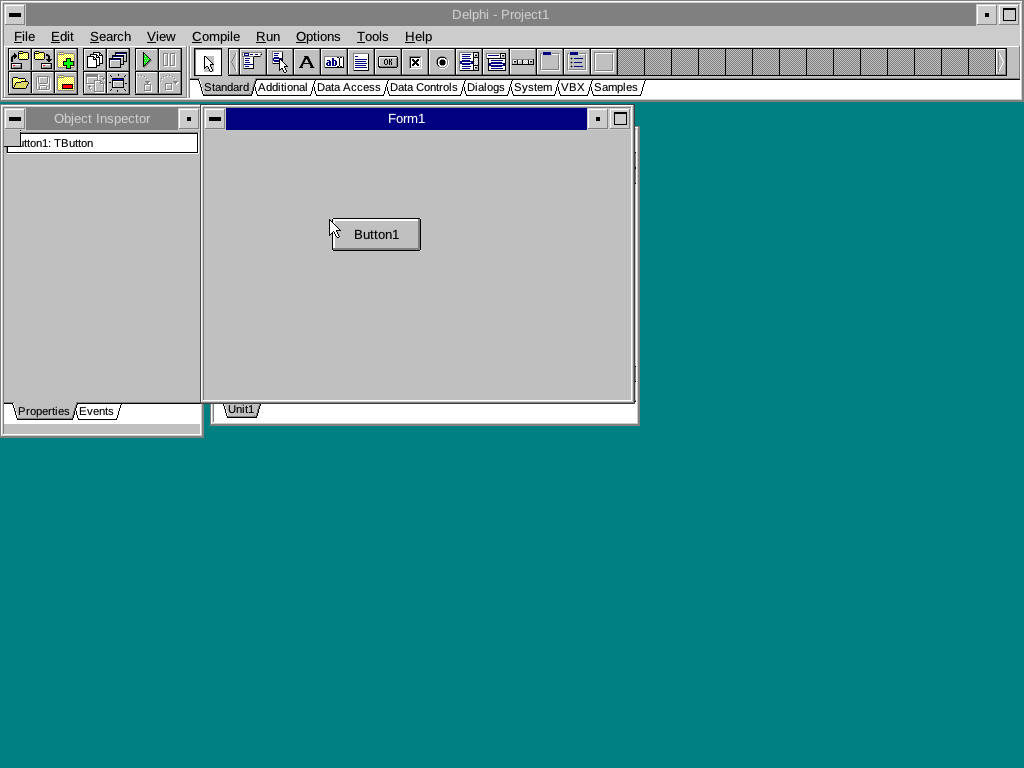
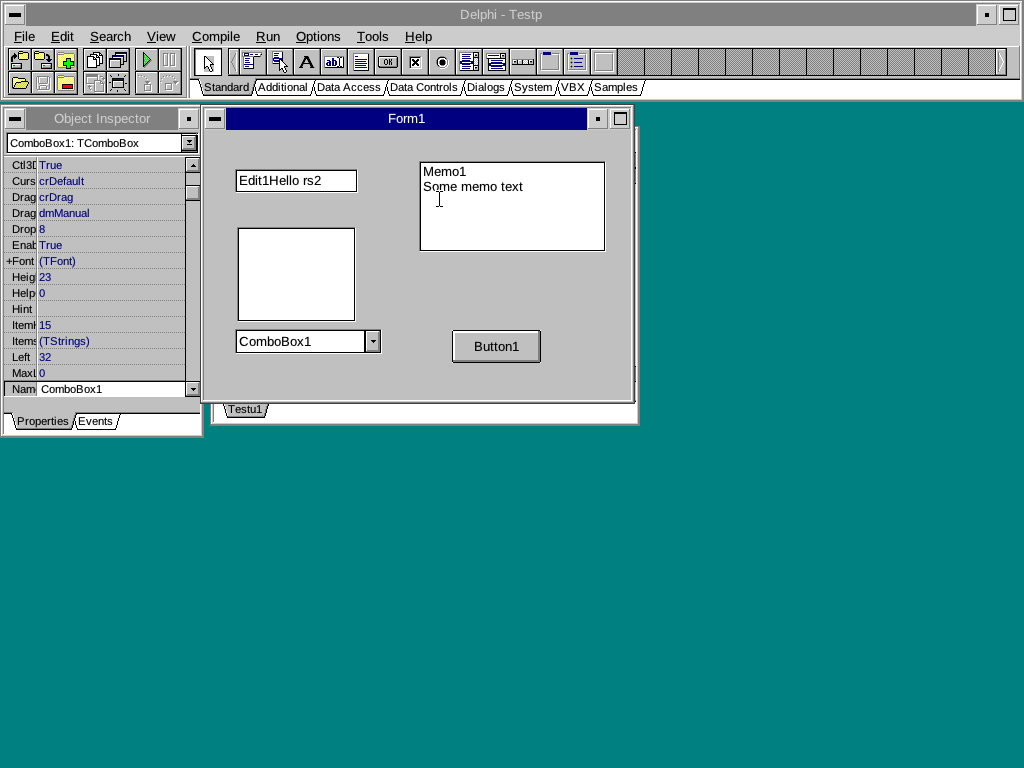
docs/WIN16.md: Delphi 1.0 works with its default settings (the inspector, designer, menus, Gallery, COMMDLG, options, compiled programs) and what it needed; TOOLHELP and debuggers (task registry, TDBs, views of other tasks, notifications, the entry breakpoint) and what debugging another task is miss

diff --git a/docs/WIN16.md b/docs/WIN16.md
@@ -35,7 +35,9 @@ files are involved. This is the media-free alternative to Win-OS/2
 | Printing: printer DCs (CreateDC, CreateIC) on rs2's spooler and PostScript driver, Escape (STARTDOC, NEWFRAME, ENDDOC, ABORTDOC, NEXTBAND, GETPHYSPAGESIZE, PASSTHROUGH...), StartDoc...EndDoc, SetAbortProc, GetDeviceCaps, WIN.INI's printers | works (stage 3) |
 | DDE between Windows tasks (WM_DDE_*, GMEM_DDESHARE, global atoms), to PM programs' DDE servers, DDEML | works (stage 3) |
 | The clipboard: CF_TEXT, CF_BITMAP, CF_DIB, CF_METAFILEPICT, registered formats, delayed rendering, shared with PM programs | works (stage 3) |
-| MMSYSTEM, OLE 2, TOOLHELP's databases, the rest of the compatibility tail | stage 4 |
+| TOOLHELP: the task, module and global heap databases, stack traces, MemoryRead/Write, NotifyRegister's task start and end across processes | works (stage 4, below) |
+| Debugging another task (breakpoints, single steps, a stopped task's registers) | no: tasks are processes ("TOOLHELP and debuggers") |
+| MMSYSTEM, OLE 2, the rest of the compatibility tail | stage 4 |
 
 Checked in QEMU: `RS2\HELLO16.EXE` (a classic hello world: a window
 class, text painted in WM_PAINT, a MessageBox on a click) shows as a PM
@@ -120,9 +122,11 @@ same loader reads both, but a Windows module differs in several ways.
   module name and the "TD" signature. The *module database* is the NE
   header in memory: GetModuleHandle returns its selector, the usage
   count is at offset 2 and the segment table carries the segments'
-  handles. TOOLHELP walks both. Stage 1 has neither (GetCurrentTask
-  returns the instance, GetModuleHandle the instance or a fixed handle
-  for a system module); stage 4 builds them for the programs that look.
+  handles. TOOLHELP walks both. Stage 1 had neither; now GetCurrentTask
+  returns the task's TDB (Windows' fields), while a module's handle is
+  still its instance (GetModuleHandle, or a fixed handle for a system
+  module); another task's module database is built from its file
+  ("TOOLHELP and debuggers").
 
 ## Loading
 
@@ -673,7 +677,7 @@ Windows; what they needed, in the order they asked for it:
 | Jewels | | | starts | |
 | Hyperoid | | C | partly | Draws its own title bar with GetWindowDC: lands in the client area |
 | LIFEAPP | | | partly | Loading a snapshot fails (current directory) |
-| **Delphi** | 1.0 | Delphi 1 | **works, with gaps** | See below |
+| **Delphi** | 1.0 | Delphi 1 | **works** | Designs, edits properties, compiles and runs programs; the integrated debugger cannot stop the program (below) |
 
 ### Delphi 1.0
 
@@ -691,8 +695,6 @@ ComponentLibrary=C:\DELPHI\BIN\COMPLIB.DCL
 SaveLibrarySource=1
 [Gallery]
 BaseDir=C:\DELPHI\GALLERY
-[Debugging]
-IntegratedDebugging=0
 
 ; WIN.INI
 [IDAPI]
@@ -704,25 +706,139 @@ LDPath=C:\IDAPI\LANGDRV
 
 `C:\DELPHI\BIN\DELPHI.EXE` starts the IDE: the main window with the
 component palette, Form1 in the form designer, the code editor and the
-Object Inspector. Components drop onto the form, Ctrl+F9 compiles
-(UNIT1.DCU, PROJECT1.EXE) and F9 runs the compiled program, a native
-Windows program on WIN16 like any other.
+Object Inspector. With Delphi's default settings:
+
+- **The Object Inspector** lists the properties and events and edits
+  them: text values, the drop-down lists of enumerations, the Events tab
+  (a double click on an event writes its handler in the code editor).
+- **The form designer**: components of every palette page drop onto the
+  form (Edit, Memo, ListBox, Button, ComboBox, the dialogs components,
+  MainMenu, TTable...), with grab handles; the menu designer edits a
+  MainMenu.
+- **Files and projects**: File|New Form shows the Gallery (Browse
+  Gallery: blank form, About box, dialogs...), File|Save Project As and
+  Open use WIN16's COMMDLG with Delphi's own templates; Options|Project
+  and Options|Environment work.
+- Ctrl+F9 compiles (UNIT1.DCU, PROJECT1.EXE) and F9 runs the compiled
+  program, a native Windows program on WIN16 like any other: its
+  controls, its TOpenDialog...
 
 ![Delphi 1.0 on rs2: the IDE and the program it compiled](images/rs2-win16-delphi.png)
 
+![The Object Inspector's property list and a drop-down editor](images/rs2-win16-delphi-inspector.png)
+
+What it needed, besides stage 3 (each has a W16TEST check):
+
+- **WM_SIZE in Windows' order.** An overlapped window gets WM_SIZE and
+  WM_MOVE on its first ShowWindow even when it was sized while hidden
+  (Wine's and ReactOS' WIN_NEED_SIZE); child and pop-up windows get
+  them from CreateWindow, visible or not. The Object Inspector lays out
+  its property list in its OnResize, which only that first-show WM_SIZE
+  calls after the list exists.
+- **Children of the desktop.** The inspector's drop-down lists are
+  child windows that SetParent(hwnd, NULL) moves to the desktop: placed
+  in screen coordinates, they take no focus (SetFocus returns 0, as on
+  Windows) and a click does not activate them (rs2 PM's NOACTIVATE
+  style bit, pmwin::ws::NOACTIVATE).
+- **The system bitmaps**: LoadBitmap(NULL, OBM_COMBO) and the other
+  OBM_ images, which the inspector's buttons are drawn from.
+- **List boxes** show their scroll bars only when there is something to
+  scroll (LBS_DISABLENOSCROLL keeps them), as Windows 3.1's do.
+- **Menus**: CreateMenu and CreatePopupMenu make the same menu; one
+  becomes a drop-down when inserted with MF_POPUP (Delphi's menus are
+  made with CreateMenu).
+- **Window classes per module**: the IDE and its component library
+  (COMPLIB.DCL) both register TListBox, TMemo...; a window gets its
+  module's class, then a CS_GLOBALCLASS one, then the system's.
+- **Superclassed combo boxes** (TComboBox): the combo box takes its own
+  scroll bars off and a drop-down one keeps its field's height, a larger
+  height being the dropped list's.
+- **PeekMessage's message range** (the code editor drained WM_CHARs and
+  lost every other key) and TranslateMessage finding the character of
+  the key it is given.
+- **TOOLHELP** and LoadModule waiting for the new task's start (below),
+  GetCodeHandle, SwitchToThisWindow, EndMenu.
+
+![The Events tab and a handler the inspector wrote](images/rs2-win16-delphi-events.png)
+
 Not yet:
 
-- **The integrated debugger.** With IntegratedDebugging=1 (Delphi's
-  default) Run ends the IDE: the debugger needs TOOLHELP's task and
-  module databases (TaskFindHandle, ModuleFirst, GlobalHandleToSel,
-  GlobalEntryHandle, NotifyRegister's events) and the debug registers.
-  Hence `IntegratedDebugging=0`.
-- **The Object Inspector's property list** (an owner-drawn list box)
-  stays 0 by 0 pels: the IDE never sizes it. The inspector's first
-  WM_SIZE comes before its children exist; what Windows does differently
-  there is not found yet.
-- COMMDLG (Open, Save As...) and DDE are stage 3's (above); not tried
-  with Delphi yet.
+- **The integrated debugger** (on by default): F9 compiles and starts
+  the program, which runs, and the IDE goes on, but it reports "Could
+  not run/step the process": breakpoints are not hit and the program
+  cannot be stopped or stepped. Delphi's debug kernel (PASDBK16.DLL)
+  works the Windows 3.1 way: its NotifyRegister and InterruptRegister
+  callbacks run inside the debuggee, it plants INT 3s, resumes the
+  stopped task with TaskSwitch after a PostAppMessage, a WH_CALLWNDPROC
+  hook on the debuggee's task and data the DLL shares between the two
+  tasks. Each task being a process here, none of that reaches the other
+  task (see "TOOLHELP and debuggers" for what is done and what is
+  missing). With `[Debugging] IntegratedDebugging=0` in DELPHI.INI (or
+  Options|Environment, Integrated debugging off) Run starts the program
+  without the message.
+- **Help**: Help|Contents and F1 do nothing; Windows Help (WINHELP.EXE)
+  is not there, and WinHelp has no viewer to start (rs2's VIEW reads
+  OS/2 .INF/.HLP files, not Windows .HLP).
+- The Object Inspector's name column starts narrow: TPropListBox sets
+  its divider from its first WM_SIZE, which Windows sends from
+  CreateWindow while the list is still 0 pels wide (as WIN16 now does);
+  drag the divider. The IDE's toolbar hints sometimes stay up.
+
+### TOOLHELP and debuggers
+
+`userland/win16/src/toolhelp.rs`. Windows' TOOLHELP walks KERNEL's lists
+in one address space; here selectors mean nothing outside their
+process (the same numbers are other segments in the next one), so:
+
+- the **task registry**, a shared object every WIN16 process maps
+  (`\SHAREMEM\RS2W16\TASKS.DAT`), lists the tasks: process, instance,
+  stack, start address, segments, module name and path, and each one's
+  NotifyRegister and InterruptRegister callbacks;
+- each task has a **task database** (TDB, Windows' layout with the "TD"
+  signature: hInstance at 1Ch, hModule at 1Eh...), whose selector is its
+  task handle (GetCurrentTask, GetWindowTask, IsTask);
+- another task is seen through a **view**: a TDB, a module database (the
+  NE header and tables of its file, the segment table with handles) and
+  copies of its segments, read with RS2API 422 `Rs2Win16ReadTask(pid,
+  sel, off, buf, cb)` (both processes must be Windows programs), all
+  selectors of this process. Everything TOOLHELP says about the other
+  task (its handle, hInstance, hModule, SS, start CS:IP,
+  GlobalEntryModule's blocks) is in terms of the view, so a debugger
+  reads, and writes its breakpoints into, the copies, never into its own
+  segments that happen to have the same numbers.
+
+TaskFirst/TaskNext/TaskFindHandle, ModuleFirst/ModuleNext/
+ModuleFindName/ModuleFindHandle (the program, its DLLs, other tasks,
+WIN16's system modules), GlobalFirst/GlobalNext/GlobalInfo/
+GlobalEntryHandle/GlobalEntryModule/GlobalHandleToSel, ClassFirst/
+ClassNext, StackTraceFirst/StackTraceCSIPFirst/StackTraceNext (this
+task's stack), MemManInfo, SystemHeapInfo, MemoryRead/MemoryWrite (this
+process's selectors, which include the views) and TerminateApp (another
+task: its process ends, and NFY_EXITTASK is given for it) work.
+
+**Notifications** cross processes as PM queue messages: a task that
+starts (InitTask) or ends posts NFY_STARTTASK / NFY_EXITTASK, and
+OutputDebugString NFY_OUTSTR, to every process with a callback, whose
+WIN16 calls the callback from its message loop, GetCurrentTask
+answering the task the event is about, as it would inside that task.
+WinExec and LoadModule return once the new task has started and its
+NFY_STARTTASK was delivered (Windows runs the new task's start inside
+LoadModule), with its instance handle. A debugger's **entry
+breakpoint** works: while a task with both callbacks exists, a new task
+waits in InitTask; if the debugger put an INT 3 on its start (in the
+copy), its interrupt callback is called with TOOLHELP's frame, and its
+IRET to the copy (a data selector: it faults) is taken as its return;
+then the task goes on. TaskGetCSIP/TaskSetCSIP keep the view's address,
+TaskSwitch lets the task go on.
+
+Missing, and why: a task's own faults and INT 3s are not given to
+another process's interrupt callback, nothing stops a running task or
+reads its live registers, and hooks and DirectedYield/PostAppMessage
+into another task do nothing there. Doing it would take the debugger and
+the debuggee in one process (tasks as threads of one Win16 machine, with
+a Win16Lock, as Wine has it) or a cross-process debug interface in the
+kernel (DosDebug-like: stop, registers, breakpoints). Delphi's debugger
+also expects its DLL's data shared between the tasks.
 
 ![Calmira 2.2, a Windows 3.1 shell written in Delphi, on rs2](images/rs2-win16-calmira.png)
 
@@ -775,9 +891,12 @@ and messages with pointers that cross tasks remain.
 manage selectors or call real mode), the floating point emulator
 (WIN87EM, OSFIXUPs, INT 34h-3Dh), MMSYSTEM (waveOut, midiOut, MCI on
 rs2's MMPM, docs/MMPM.md), OLE 1 and 2 (OLECLI, OLESVR, COMPOBJ,
-STORAGE, OLE2), TOOLHELP with the task and module databases, the BIOS
+STORAGE, OLE2), the BIOS
 and video selectors (`__0040H`, `__A000H`...), self-loading programs,
 Windows 2.x programs, SOUND and SYSTEM.
+
+TOOLHELP is done ("TOOLHELP and debuggers") except debugging another
+task.
 
 **Out of scope:** VxD calls (INT 2Fh 1684h finds no device), Windows
 device drivers (display, printer and keyboard .DRV files), real-mode
